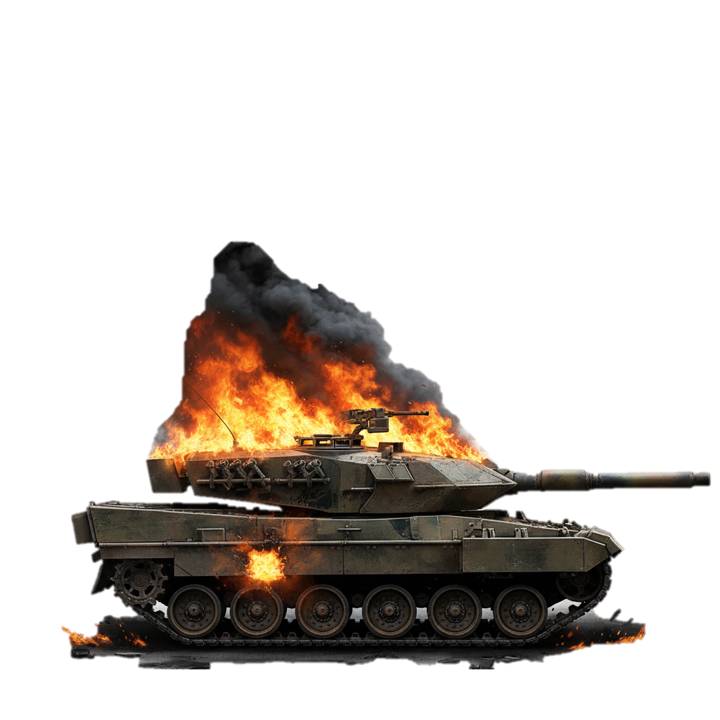
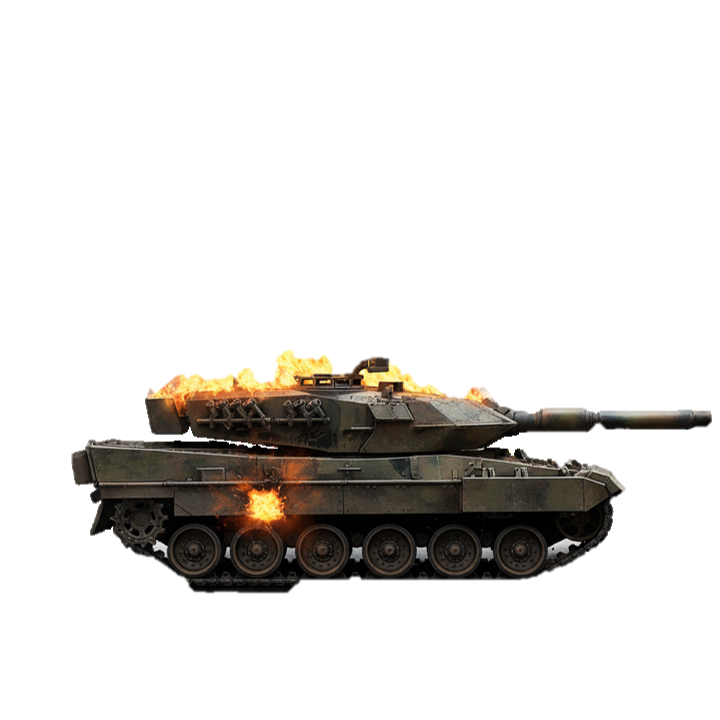
Adiciona efeitos de fogo e explosão que acompanham os tanques e ajusta potência do tanque 2

Changed region(s): [[0.0917, 0.3361, 1.0, 0.9472]]

diff --git a/javascript.js b/javascript.js
@@ -246,9 +246,19 @@ class GroundFire {
     this.smokeIntensity = (typeof opts.smokeIntensity === 'number') ? opts.smokeIntensity : 0.55;
     this.fireSizeScale = (typeof opts.fireSizeScale === 'number') ? opts.fireSizeScale : 1;
     this.tick = 0;
+    this.tankIndex = opts.tankIndex; // índice do tanque (0 ou 1) para acompanhar sua posição
+    this.offsetX = opts.offsetX || 0; // offset X relativo ao tanque
+    this.offsetY = opts.offsetY || 0; // offset Y relativo ao tanque
   }
 
   update() {
+    // Se está vinculado a um tanque, atualiza posição baseada no tanque
+    if (this.tankIndex !== undefined) {
+      const tank = this.tankIndex === 0 ? tanque1 : tanque2;
+      this.x = tank.x + this.offsetX;
+      this.y = tank.y + this.offsetY;
+    }
+    
     this.tick++;
     // spawn smoke every few frames
     if (this.tick % this.rate === 0) {
@@ -466,8 +476,16 @@ function setup() {
   try {
     setGroundFireAnchor(0, tanque1.x - 88 * scale, tanque1.y + 10 * scale);
     setGroundFireAnchor(1, tanque2.x + 86 * scale, tanque2.y + 10 * scale);
-    createGroundFireAt(groundFireAnchors[0].x, groundFireAnchors[0].y, { rate: isMobile ? 8 : 5, fireRate: isMobile ? 6 : 3 });
-    createGroundFireAt(groundFireAnchors[1].x, groundFireAnchors[1].y, { rate: isMobile ? 8 : 5, fireRate: isMobile ? 6 : 3 });
+    // Fogo do tanque 1 - fixo no cenário (NÃO acompanha o tanque)
+    createGroundFireAt(groundFireAnchors[0].x, groundFireAnchors[0].y, { 
+      rate: isMobile ? 8 : 5, 
+      fireRate: isMobile ? 6 : 3
+    });
+    // Fogo do tanque 2 - fixo no cenário (NÃO acompanha o tanque)
+    createGroundFireAt(groundFireAnchors[1].x, groundFireAnchors[1].y, { 
+      rate: isMobile ? 8 : 5, 
+      fireRate: isMobile ? 6 : 3
+    });
     const midX = Math.round((tanque1.x + tanque2.x) / 2);
     const midY = Math.round(Math.min(tanque1.y, tanque2.y) + 5 * scale);
     setGroundFireAnchor(2, midX, midY);
@@ -482,9 +500,8 @@ function draw() {
   background(30);
   image(fundoImg, 0, 0, width, height);
   
-  // Atualiza geradores de fogo no chão e partículas de fogo; depois atualiza fumaça
+  // Atualiza geradores de fogo no chão
   updateGroundFires();
-  drawFireParticles();
   // Atualiza partículas de fumaça (remove mortas, as novas fumaças podem ter sido adicionadas acima)
   updateSmoke();
 
@@ -520,7 +537,7 @@ function draw() {
   const ox1 = 0; // no horizontal oscillation for engine hum
   const oy1 = Math.sin(t * e1.freq + e1.phase) * e1.amp;
 
-  if (vida[1] <= 0 || tanque2QuebradoTemp) {
+  if (vida[1] <= 0) {
     push();
     translate(tanque2.x + ox1, tanque2.y + oy1);
     scale(-1, 1);
@@ -748,7 +765,7 @@ function draw() {
           let smokeOffsetX = (anchor && isFinite(anchor.x)) ? anchor.x : ((damagedIdx === 0) ? (tanque1.x - 12) : (tanque2.x + 36));
           let smokeOffsetY = (anchor && isFinite(anchor.y)) ? anchor.y : (damagedIdx === 0 ? tanque1.y : tanque2.y);
           // Efeito de explosão de fogo e fumaça quando bomba atinge tanque (alinhados verticalmente, na base do tanque)
-          const explosionY = p.y + 35; // Ajustado para posição intermediária
+          const explosionY = p.y + 100; // 100 pixels abaixo - na base do tanque
           for (let f = 0; f < 35; f++) {
             fireParticles.push(new FireParticle(p.x, explosionY, 2.2));
           }
@@ -756,6 +773,41 @@ function draw() {
           addSmoke(p.x, explosionY, 35, 2.5);
           // Fumaça adicional leve no anchor para continuidade
           addSmoke(smokeOffsetX, smokeOffsetY, 6, 1.3);
+          
+          // Adicionar fogo contínuo que acompanha o tanque atingido
+          const tankObj = (damagedIdx === 0 ? tanque1 : tanque2);
+          // Calcula offset relativo à posição atual do tanque
+          const offsetXFire = p.x - tankObj.x;
+          
+          // Calcula offset Y baseado na proximidade do centro do tanque
+          // Quanto mais perto do centro, mais acima fica o fogo
+          const distanceFromCenter = Math.abs(offsetXFire);
+          const maxDistance = tankObj.w / 2; // metade da largura do tanque
+          const proximityRatio = 1 - Math.min(distanceFromCenter / maxDistance, 1);
+          // Varia de 30 (nas bordas) até -20 (no centro) - mais acima quando no meio
+          const offsetYFire = 30 - (proximityRatio * 50);
+          
+          const fireEmitter = new GroundFire(p.x, tankObj.y + offsetYFire, { 
+            rate: 6, 
+            fireRate: 4, 
+            smokeCount: 1, 
+            smokeIntensity: 0.4, 
+            fireSizeScale: 0.7,
+            tankIndex: damagedIdx, // vincula ao tanque
+            offsetX: offsetXFire, // offset X relativo ao centro do tanque
+            offsetY: offsetYFire // offset Y relativo ao centro do tanque
+          });
+          groundFires.push(fireEmitter);
+          
+          // Adicionar pequenas chamas contínuas e visíveis sobre o tanque atingido
+          for (let flame = 0; flame < 12; flame++) {
+            let fx = p.x + random(-20, 20);
+            let fy = p.y + random(-8, 8);
+            let fire = new FireParticle(fx, fy, 1.2);
+            fire.vy = random(-0.3, 0.1); // movimento mais lento para ficar visível sobre o tanque
+            fire.life = Math.floor(random(25, 45)); // vida mais longa
+            fireParticles.push(fire);
+          }
           projeteis.splice(i, 1);
           if (damagedIdx === 0 && vida[damagedIdx] > 0) { tanque1QuebradoTemp = true; setTimeout(() => { tanque1QuebradoTemp = false; }, 1000); }
           else if (damagedIdx === 1 && vida[damagedIdx] > 0) { tanque2QuebradoTemp = true; setTimeout(() => { tanque2QuebradoTemp = false; }, 1000); }
@@ -771,7 +823,51 @@ function draw() {
           setTimeout(() => atualizarBarraVida(adversarioIdx === 0 ? 'vida1' : 'vida2', vida[adversarioIdx]), 50);
           explosao = { x: adversarioTank.x, y: adversarioTank.y, size: 120 };
           explosaoTimer = 40;
+          
+          // Efeito de explosão de fogo e fumaça quando tiro de tanque atinge adversário
+          const explosionY = p.y + 100; // 100 pixels abaixo - na base do tanque
+          for (let f = 0; f < 35; f++) {
+            fireParticles.push(new FireParticle(p.x, explosionY, 2.2));
+          }
+          // Fumaça alinhada verticalmente com o fogo no ponto de impacto
+          addSmoke(p.x, explosionY, 35, 2.5);
           addSmoke(adversarioTank.x, adversarioTank.y, 10, 1.8);
+          
+          // Adicionar fogo contínuo que acompanha o tanque atingido
+          const tankObj = adversarioTank;
+          // Calcula offset relativo à posição atual do tanque
+          const offsetXFire = p.x - tankObj.x;
+          
+          // Calcula offset Y baseado na proximidade do centro do tanque
+          // Quanto mais perto do centro, mais acima fica o fogo
+          const distanceFromCenter = Math.abs(offsetXFire);
+          const maxDistance = tankObj.w / 2; // metade da largura do tanque
+          const proximityRatio = 1 - Math.min(distanceFromCenter / maxDistance, 1);
+          // Varia de 30 (nas bordas) até -20 (no centro) - mais acima quando no meio
+          const offsetYFire = 30 - (proximityRatio * 50);
+          
+          const fireEmitter = new GroundFire(p.x, tankObj.y + offsetYFire, { 
+            rate: 6, 
+            fireRate: 4, 
+            smokeCount: 1, 
+            smokeIntensity: 0.4, 
+            fireSizeScale: 0.7,
+            tankIndex: adversarioIdx, // vincula ao tanque
+            offsetX: offsetXFire, // offset X relativo ao centro do tanque
+            offsetY: offsetYFire // offset Y relativo ao centro do tanque
+          });
+          groundFires.push(fireEmitter);
+          
+          // Adicionar pequenas chamas contínuas e visíveis sobre o tanque atingido
+          for (let flame = 0; flame < 12; flame++) {
+            let fx = p.x + random(-20, 20);
+            let fy = p.y + random(-8, 8);
+            let fire = new FireParticle(fx, fy, 1.2);
+            fire.vy = random(-0.3, 0.1); // movimento mais lento para ficar visível sobre o tanque
+            fire.life = Math.floor(random(25, 45)); // vida mais longa
+            fireParticles.push(fire);
+          }
+          
           projeteis.splice(i, 1);
           if (adversarioIdx === 0 && vida[adversarioIdx] > 0) { tanque1QuebradoTemp = true; setTimeout(() => { tanque1QuebradoTemp = false; }, 1000); }
           else if (adversarioIdx === 1 && vida[adversarioIdx] > 0) { tanque2QuebradoTemp = true; setTimeout(() => { tanque2QuebradoTemp = false; }, 1000); }
@@ -822,6 +918,9 @@ function draw() {
   
   // Renderiza todas as partículas de fumaça
   displaySmoke();
+  
+  // Renderiza partículas de fogo POR ÚLTIMO para ficarem visíveis sobre os tanques
+  drawFireParticles();
 }
 
 // Função para alterar valores dos controles
@@ -863,15 +962,18 @@ function disparar() {
   let dy = y - origem.y;
   let angulo = atan2(dy, dx);
 
-      const fatorVelocidade = 0.5;
-    const proj = {
-      x: origem.x,
-      y: origem.y,
-      vx: cos(angulo) * potencia * fatorVelocidade,
-      vy: sin(angulo) * potencia * fatorVelocidade,
-      gravidade: 0.2,
-      owner: turno
-    };
+  // Tanque 2 tem potência maior (1.4x mais forte)
+  const fatorVelocidade = turno === 2 ? 0.7 : 0.5;
+  // Fator Y maior para o tanque 2 (tiros vão mais alto)
+  const fatorY = turno === 2 ? 1.3 : 1.0;
+  const proj = {
+    x: origem.x,
+    y: origem.y,
+    vx: cos(angulo) * potencia * fatorVelocidade,
+    vy: sin(angulo) * potencia * fatorVelocidade * fatorY,
+    gravidade: 0.2,
+    owner: turno
+  };
   projeteis.push(proj);
   // mark that this player's shot is pending a turn change when it resolves
   pendingTurnOwner = turno;
